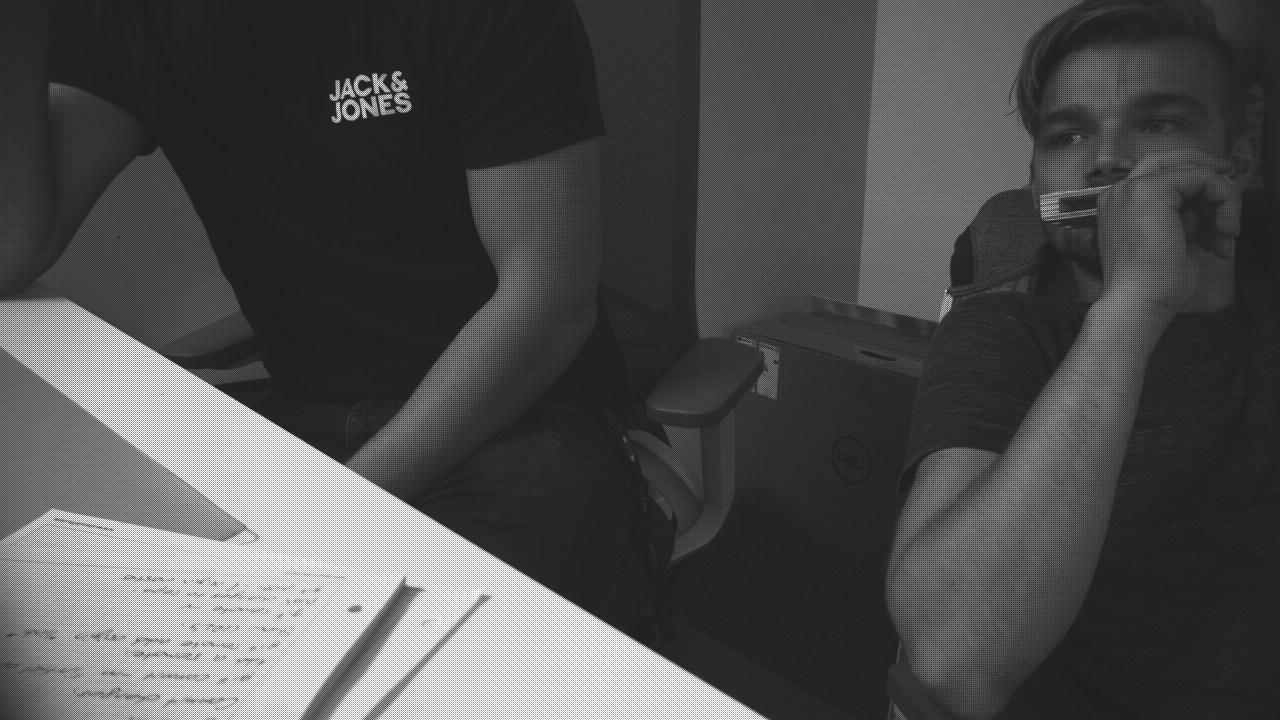
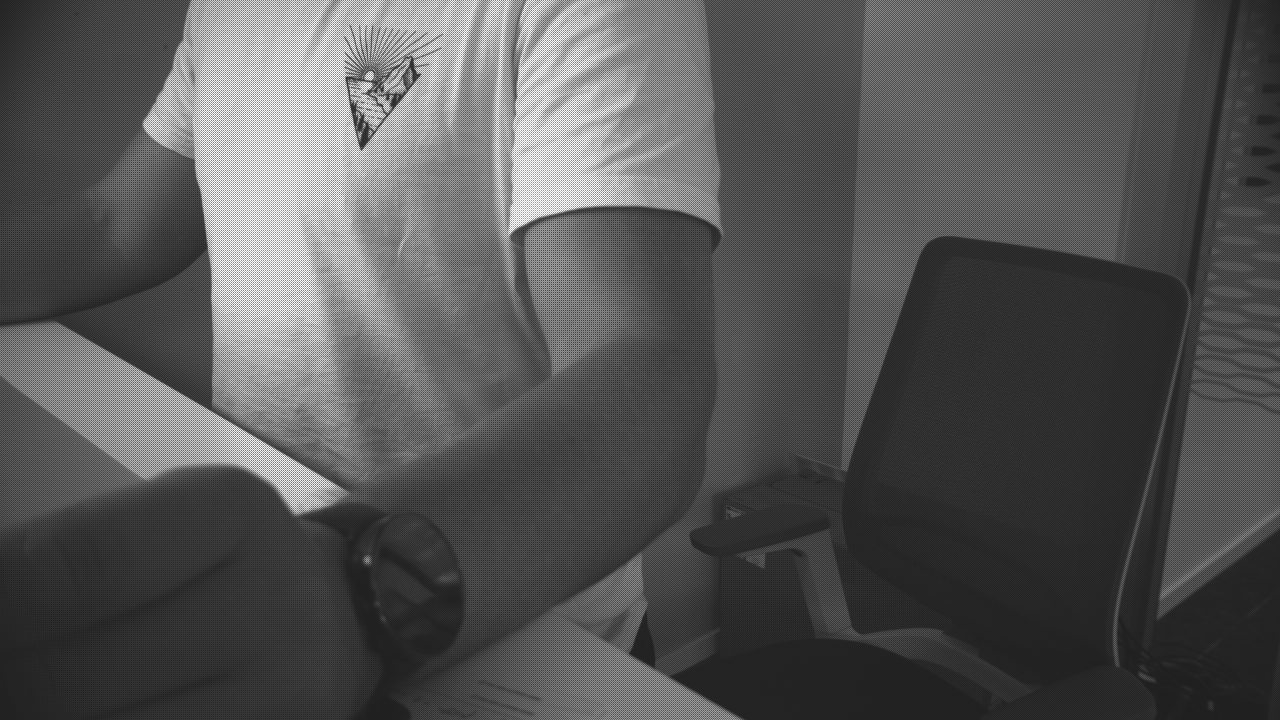
Multithreaded CAN-BUS

diff --git a/04_CAN/V4l2_Functions.py b/04_CAN/V4l2_Functions.py
@@ -1,0 +1,134 @@
+##########################################################################
+#   V4l2_Functions.py
+##########################################################################
+#   Author: F.Heimann
+#   Date:   17.06.2022
+#
+#
+#   Imports:
+import cv2
+import subprocess
+
+#------------Init_Pipeline------------#
+# Defnies and initializes both pipelines for video0 and video1
+def Init_Pipeline():
+    # ASSIGN CAMERA ADRESS to DEVICE HERE!
+    pipeline_Left = " ! ".join(["v4l2src device=/dev/video0",
+                        "video/x-raw, width=1280, height=720, framerate=30/1",
+                        "videoconvert",
+                        "video/x-raw, format=GRAY8",
+                        "appsink"
+                        ])
+
+    pipeline_Right = " ! ".join(["v4l2src device=/dev/video1",
+                        "video/x-raw, width=1280, height=720, framerate=30/1",
+                        "videoconvert",
+                        "video/x-raw, format=GRAY8",
+                        "appsink"
+                        ])
+    video_capture_Left = cv2.VideoCapture(pipeline_Left, cv2.CAP_GSTREAMER)
+    video_capture_Right = cv2.VideoCapture(pipeline_Right, cv2.CAP_GSTREAMER)
+    return video_capture_Left, video_capture_Right
+
+
+#------------set_camera_properties_right------------#
+# Sets the camera settings for the right camera (video1)
+def set_camera_properties_right():
+    cam_props_right = {'brightness': 500, 'gain': 0, 'exposure_absolute': 3333,
+             'exposure_time_us': 33333, 'gain_db_100': 0, 'trigger_mode': 0,
+             'trigger_delay': 0, 'strobe_enable': 0,
+             'strobe_polarity': 0, 'strobe_exposure': 0, 'strobe_duration': 100,
+             'strobe_delay': 0, 'gpout': 0,'gpin': 0,'trigger_polarity': 0,
+             'flip_horizontal': 1, 'flip_vertical': 1}
+    for key in cam_props_right:
+        subprocess.call(['v4l2-ctl -d /dev/video1 -c {}={}'.format(key, str(cam_props_right[key]))],
+                    shell=True)
+
+
+#------------set_camera_properties_left------------#
+# Sets the camera settings for the left camera (video1)
+def set_camera_properties_left():
+    cam_props_left = {'brightness': 500, 'gain': 0, 'exposure_absolute': 3333,
+             'exposure_time_us': 33333, 'gain_db_100': 0, 'trigger_mode': 0,
+             'trigger_delay': 0, 'strobe_enable': 0,
+             'strobe_polarity': 0, 'strobe_exposure': 0, 'strobe_duration': 100,
+             'strobe_delay': 0, 'gpout': 0,'gpin': 0,'trigger_polarity': 0,
+             'flip_horizontal': 0, 'flip_vertical': 0}
+    for key in cam_props_left:
+        subprocess.call(['v4l2-ctl -d /dev/video0 -c {}={}'.format(key, str(cam_props_left[key]))],
+                    shell=True)
+
+
+#------------read frame------------#
+# Reads a frame from the given Pipeline
+def read_frame(video_capture):
+    if video_capture.isOpened():
+        ret_val, frame = video_capture.read()
+    return frame
+
+
+#------------show_camera_left------------#
+# Shows the left camera with openCV
+def show_camera_left(video_capture_left):
+    video_capture_Left = video_capture_left
+    window_Left = "USB Camera Left"
+    window_handle_Left = cv2.namedWindow(
+                window_Left, cv2.WINDOW_NORMAL)
+    cv2.moveWindow(window_Left,50,100)
+    while True:
+        frame_Left = read_frame(video_capture_Left)
+        cv2.imshow(window_Left, frame_Left)
+        keyCode = cv2.waitKey(10) & 0xFF
+        # Stop the program on the ESC key or 'q'
+        if keyCode == 27 or keyCode == ord('q'):
+            video_capture_Left.release()
+            cv2.destroyAllWindows()
+            break
+
+
+#------------show_camera_right------------#
+# Shows the Right camera with openCV
+def show_camera_Right(video_capture_right):
+    video_capture_Right=video_capture_right
+    window_Right = "USB Camera Right"
+    window_handle_Right = cv2.namedWindow(
+                window_Right, cv2.WINDOW_NORMAL)
+    cv2.moveWindow(window_Right,1000,100)
+    while True:
+        frame_Right = read_frame(video_capture_Right)
+        cv2.imshow(window_Right, frame_Right)
+        keyCode = cv2.waitKey(10) & 0xFF
+        # Stop the program on the ESC key or 'q'
+        if keyCode == 27 or keyCode == ord('q'):
+            video_capture_Right.release()
+            cv2.destroyAllWindows()
+            break
+
+#------------show_both_cameras-----------#
+# Shows both cameras with openCV
+def show_both_cameras(video_capture_left, video_capture_right):
+    video_capture_Left = video_capture_left
+    video_capture_Right = video_capture_right
+    window_Left = "USB Camera Left"
+    window_Right = "USB Camera Right"
+    window_handle_Left = cv2.namedWindow(
+                window_Left, cv2.WINDOW_NORMAL)
+    cv2.moveWindow(window_Left,50,100)
+    window_handle_Right = cv2.namedWindow(
+                window_Right, cv2.WINDOW_NORMAL)
+    cv2.moveWindow(window_Right,1000,100)
+    while True:
+        frame_Left = read_frame(video_capture_Left)
+        frame_Right = read_frame(video_capture_Right)
+        cv2.imshow(window_Left, frame_Left)
+        cv2.imshow(window_Right, frame_Right)
+        keyCode = cv2.waitKey(10) & 0xFF
+        # Stop the program on the ESC key or 'q'
+        if keyCode == 27 or keyCode == ord('q'):
+            video_capture_Left.release()
+            video_capture_Right.release()
+            cv2.destroyAllWindows()
+            break
+
+
+

diff --git a/04_CAN/CAN_Multithread.py b/04_CAN/CAN_Multithread.py
@@ -3,14 +3,26 @@
 #2. Instantiate the subclass and trigger the thread.
 
 import threading
-from multiprocessing.connection import Listener
 from socket import timeout
 import can
 from threading import Thread
+from can.interface import Bus
+import time
 
+from matplotlib import image
+from V4l2_Functions import *
+import RPi.GPIO as GPIO
 
+#Pin Definitions
+Digital_Out_0 = 43 # Digital_Out_0
+Digital_Out_1 = 44 # Digital_Out_1
 
-class can_receive_thread (threading.Thread):
+GPIO.setmode(GPIO.BCM)  # BCM pin-numbering scheme from Raspberry Pi
+
+GPIO.setup(Digital_Out_0, GPIO.OUT, initial=GPIO.LOW)
+GPIO.setup(Digital_Out_1, GPIO.OUT, initial=GPIO.LOW)
+
+class can_sending_thread (threading.Thread):
     def __init__(self,name, msg):
         threading.Thread.__init__(self)
         self.name = name
@@ -21,31 +33,87 @@ class can_receive_thread (threading.Thread):
         can.rc['channel'] = 'can0'
         can.rc['bitrate'] = 250000
         bus = Bus()
-        msg_old = 0
         while(1):
-            self.msg = bus.recv()
-            msgdata = self.msg.data[0]
-            if msgdata != msg_old:
-                if self.msg.data[0] == 0:
-                    print("Stop")
-                elif self.msg.data[0] == 1:
-                    print("Start")
-                elif self.msg.data[0] == 2:
-                    print("FYI")
-                print(self.msg)
-            msg_old = self.msg.data[0]
-                
-
+            msg = can.Message(
+            arbitration_id=0x189, data=[1, 2, 3, 4, 5, 6], is_extended_id=False
+            )
+            bus.send(msg)
+            time.sleep(2)
         print("Exiting " + self.name)
 
+class can_receive_thread (threading.Thread):
+    def __init__(self,name):
+        threading.Thread.__init__(self)
+        self.name = name
+
+    def run(self):
+        print("\nStarting " + self.name)
+        # Can Settings
+        filters = [
+            {"can_id": 0x209, "can_mask": 0x7FF, "extended": False},
+        ]
+        bus = can.interface.Bus(channel="can0", bustype="socketcan", can_filters=filters)
+        
+        msg_old = 1
+
+        while(1):
+            msg = bus.recv()
+            if msg.data[0] != msg_old:
+                if msg.data[0] == 0:
+                    print("Stop")
+                elif msg.data[0] == 1:
+                    print("Start")
+                elif msg.data[0] == 2:
+                    print("Error")
+            msg_old = msg.data[0]
+        print("Exiting " + self.name)
+
+class snap_image (threading.Thread):
+    def __init__(self,name, image_right, image_left):
+        threading.Thread.__init__(self)
+        self.name = name
+        self.image_rght = image_right
+        self.image_left = image_left
+
+    def run(self):
+        print("\nStarting " + self.name)
+        path_right = "04_CAN/Images/frame_right.png"
+        path_left = "04_CAN/Images/frame_left.png"
+        start_time = time.time()
+        set_camera_properties_left()
+        set_camera_properties_right()
+        video_capture_left, video_capture_right = Init_Pipeline()
+        GPIO.output(Digital_Out_0, GPIO.HIGH)
+        GPIO.output(Digital_Out_1, GPIO.HIGH)
+        self.image_right = read_frame(video_capture_right)
+        self.image_left = read_frame(video_capture_left)
+
+        GPIO.output(Digital_Out_0, GPIO.LOW)
+        GPIO.output(Digital_Out_1, GPIO.LOW) 
+
+        cv2.imwrite(path_left, self.image_left)
+        cv2.imwrite(path_right, self.image_right)
+        print("It took {} to snap picture".format(time.time() - start_time))
+        print("Exiting " + self.name)
+
+
 # Create new threads
-thread1 = can_receive_thread("Thread 1",0)
 
-# Start new Threads
-thread1.start()
-thread1.join()
 
-msg = thread1.msg
+if __name__ == "__main__":
+    # Start new Threads    
+    print("\nStarting Mainloop")
+    thread0 = can_sending_thread("Thread 1: Sending CAN",0)
+    thread1 = can_receive_thread("Thread 2: Reading CAN")
+    thread2 = snap_image("Thread 3: Snap Image",0,0)
+    thread0.start()
+    thread1.start()
+    thread2.start()
 
+            
+            
+            
+      
+        
 
 

diff --git a/04_CAN/Read_Write_Value.py b/04_CAN/Read_Write_Value.py
@@ -1,0 +1,13 @@
+#use pickle
+
+import pickle
+file = open('04_CAN/Data.txt', 'w')
+file.write(str(100))
+file.close
+
+file = open('04_CAN/Data.txt', 'r')
+print(file.read())
+file.close
+#file.read("04_CAN/Data.txt")
+#print()
+
